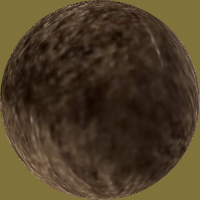
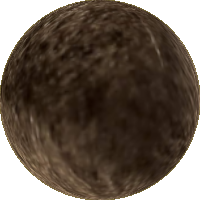
Render projectiles on top of planets by ordering stage containers

diff --git a/main.js b/main.js
@@ -1387,18 +1387,6 @@ function setup() {
       stars.push(star);
       starContainer.addParticle(star);
     }
-
-    // Projectile container underneath ships (for hardpoints with onTop = false)
-    projectileContainerUnder = new PIXI.ParticleContainer({
-      dynamicProperties: {
-        position: true,
-        rotation: true,
-        vertex: false,
-        uvs: false,
-        color: false,
-      }
-    });
-    app.stage.addChild(projectileContainerUnder);
   } else {
     for (let i = 0; i < numberOfStars; i++) {
       let star = (typeof PIXI !== 'undefined' && typeof PIXI.Sprite === 'function') ? new PIXI.Sprite(starTexture) : { x: 0, y: 0 };
@@ -1416,7 +1404,7 @@ function setup() {
     }
   }
 
-  // Planet container underneath ships and projectiles
+  // Planet container underneath ships and projectiles (rendered above stars, beneath projectiles)
   const planetContainer = (typeof PIXI !== 'undefined' && typeof PIXI.Container === 'function') ? new PIXI.Container() : null;
   if (planetContainer && app && app.stage && typeof app.stage.addChild === 'function') {
     app.stage.addChild(planetContainer);
@@ -1537,6 +1525,20 @@ function setup() {
       }
     };
     planets.push(planetObj);
+  }
+
+  if (hasParticleSupport) {
+    // Projectile container underneath ships (for hardpoints with onTop = false), positioned above planets
+    projectileContainerUnder = new PIXI.ParticleContainer({
+      dynamicProperties: {
+        position: true,
+        rotation: true,
+        vertex: false,
+        uvs: false,
+        color: false,
+      }
+    });
+    app.stage.addChild(projectileContainerUnder);
   }
 
   // Player ship starts with the default Crimson Vanguard paint and default blaster

diff --git a/tests/test_particle_containers.js b/tests/test_particle_containers.js
@@ -339,6 +339,20 @@ for (const p of planets) {
   assert.strictEqual(p.container.particleChildren.length, 1, 'Each planet texture container must hold its particle');
 }
 
+// Verify layer ordering: planets must be rendered underneath all projectiles (above stars, beneath projectileContainerUnder)
+const planetContainerIdx = sandbox.app.stage.children.indexOf(sandbox.window.planetContainer);
+const projUnderIdx = sandbox.app.stage.children.indexOf(projContainerUnder);
+const projOverIdx = sandbox.app.stage.children.indexOf(projContainerOver);
+const starContainerIdx = sandbox.app.stage.children.indexOf(starContainer);
+
+assert(starContainerIdx !== -1, 'starContainer must be in stage');
+assert(planetContainerIdx !== -1, 'planetContainer must be in stage');
+assert(projUnderIdx !== -1, 'projContainerUnder must be in stage');
+assert(planetContainerIdx > starContainerIdx, 'planetContainer must be above starContainer');
+assert(projUnderIdx > planetContainerIdx, 'projectileContainerUnder must be above planetContainer so projectiles render on top of planets');
+assert(projOverIdx > planetContainerIdx, 'projectileContainerOver must be above planetContainer');
+console.log('✓ Stage layering verified: planets render above stars, beneath projectiles');
+
 // Test culling
 const testPlanet = planets[0];
 testPlanet.sprite.x = 500;

diff --git a/tests/test_retaliatory_targeting.js b/tests/test_retaliatory_targeting.js
@@ -342,7 +342,9 @@ shipA.sprite.position.set(500, 500);
 shipA.data.vx = 0;
 shipA.data.vy = 0;
 shipA.data.shield = 10;
-shipA.data.hullHealth = 10;
+shipA.data.hullHealth = shipA.data.maxHullHealth || 10;
+shipA.data.armor = shipA.data.hullHealth;
+shipA.data.isDisabled = false;
 shipA.data.isDestroyed = false;
 shipA.data.combatTarget = shipB;
 
